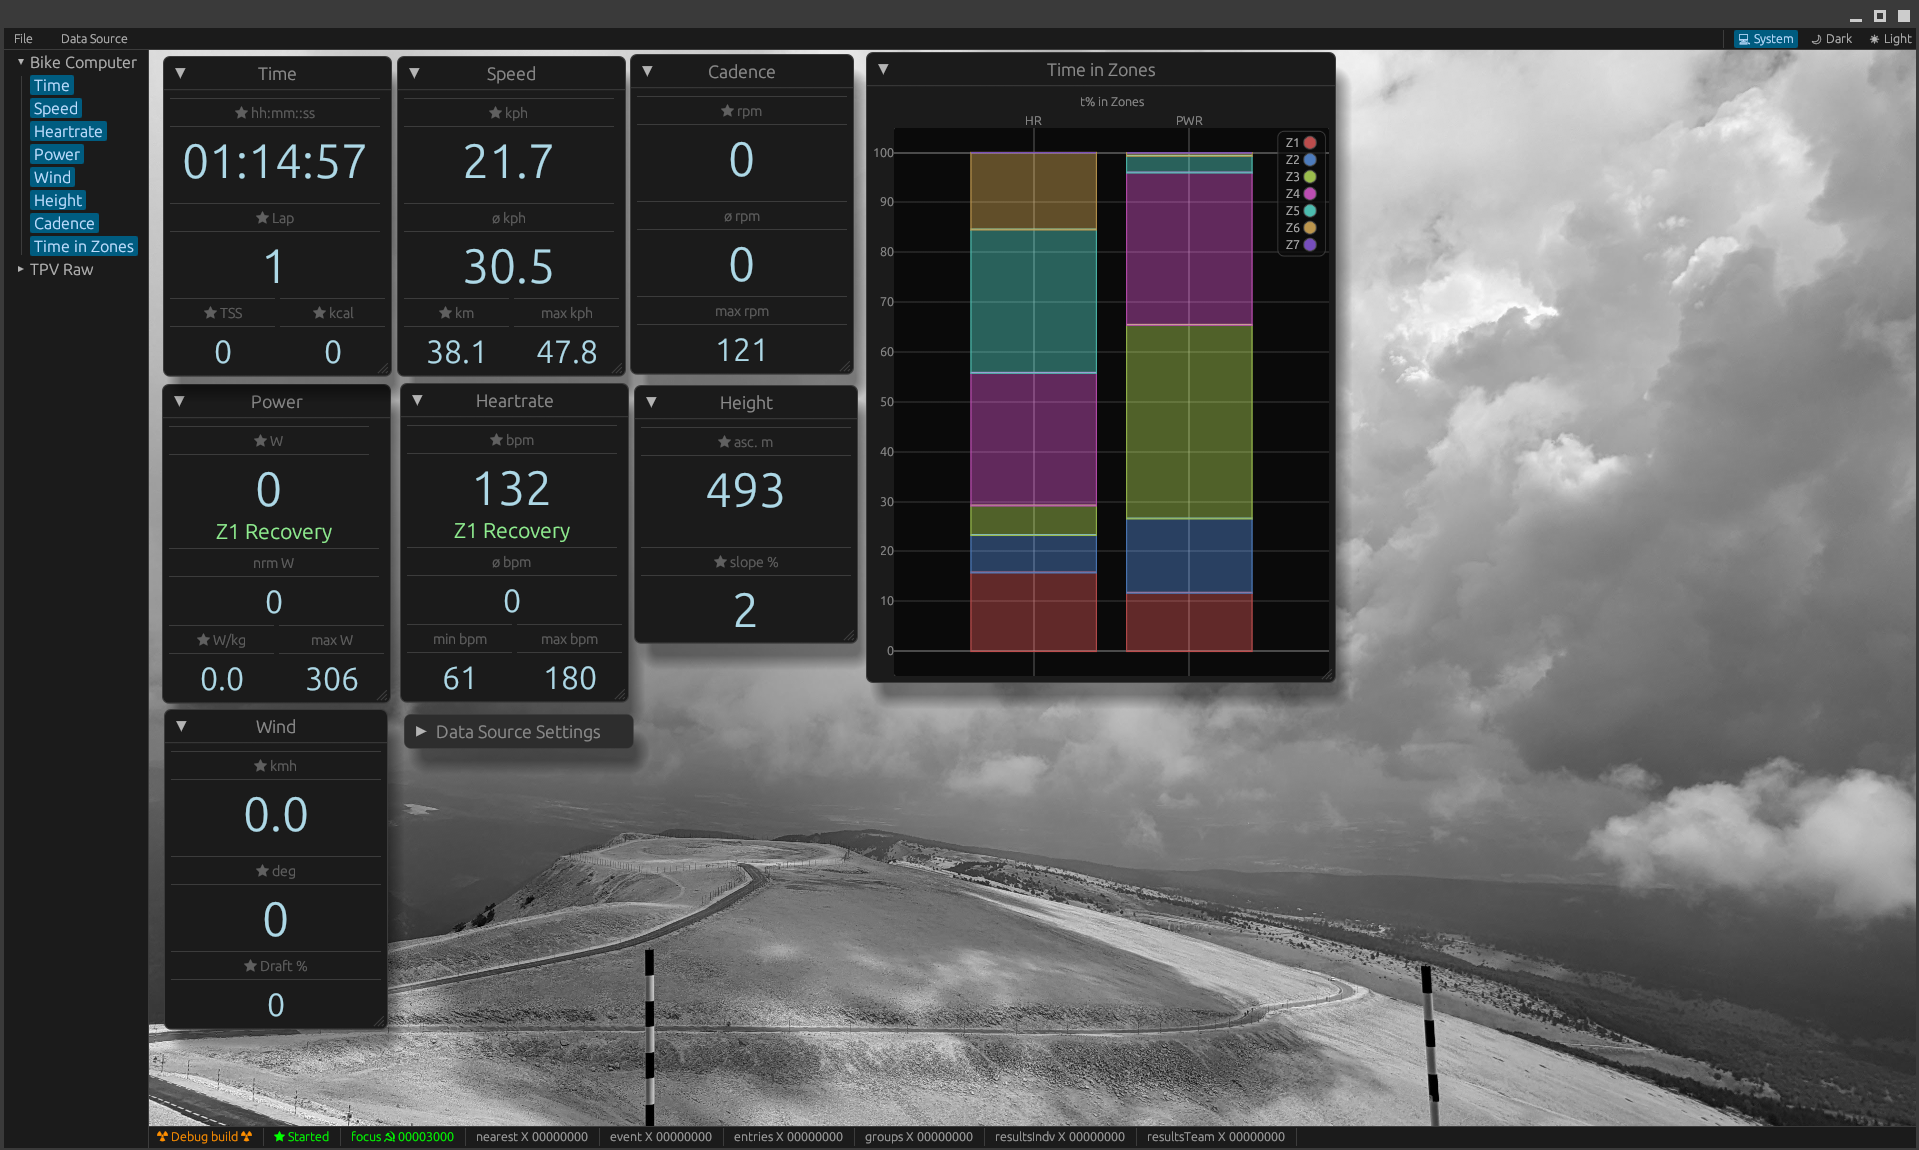
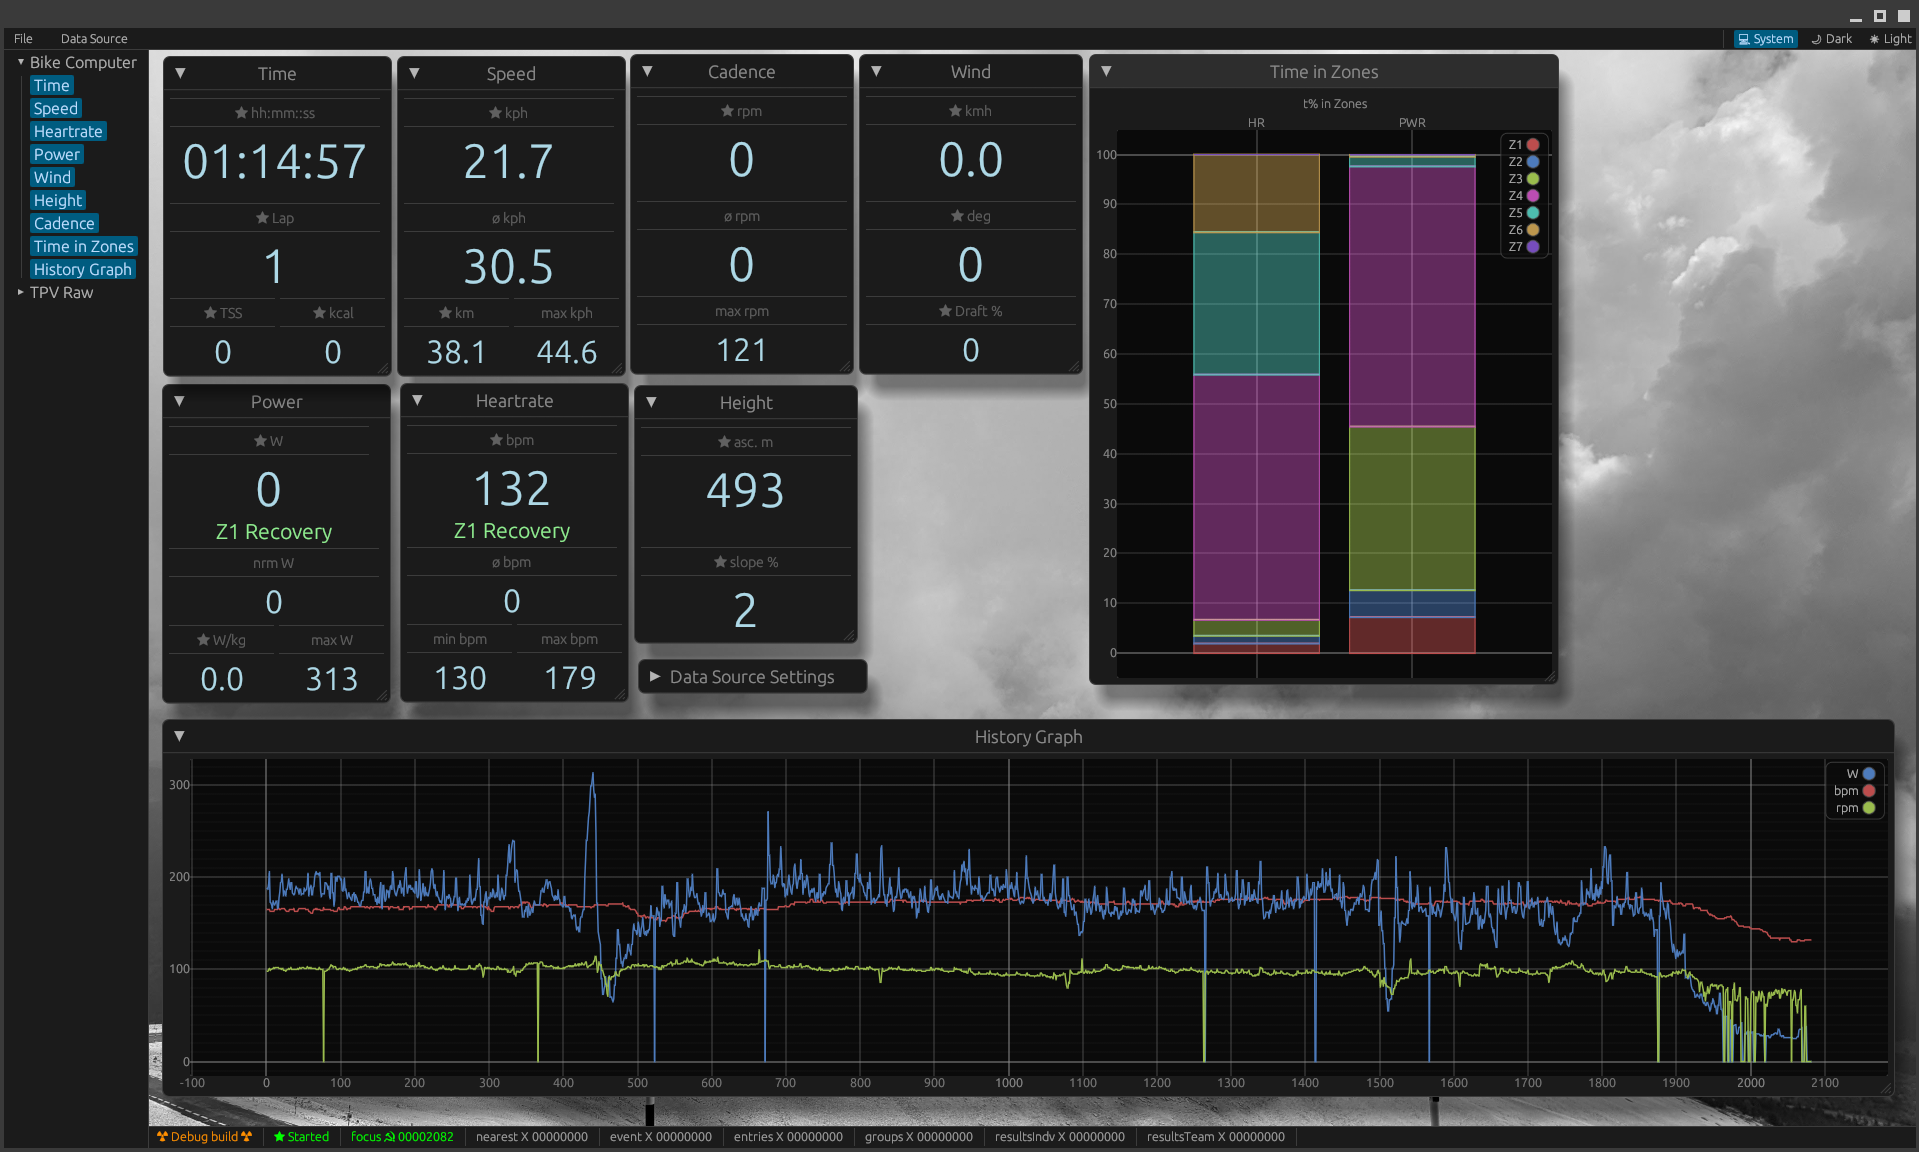
added history graph for HR, PWR, CAD

diff --git a/src/data/ride.rs b/src/data/ride.rs
@@ -37,6 +37,7 @@ pub struct HearRate {
     pub min: u32,
     pub max: u32,
     pub avg: u32,
+    pub history: Vec<u32>,
     first: bool,
 }
 
@@ -47,12 +48,14 @@ impl HearRate {
             min:  0,  
             max:  0, 
             avg:  0,
+            history: vec![0],
             first: true, 
         }
     }
 
     fn update(&mut self, focus: &super::tpvbc::Focus) {
         self.cur = focus.heartrate;
+        self.history.push(self.cur);
 
         if self.first || self.cur < self.min {
             self.min = self.cur;
@@ -73,6 +76,7 @@ pub struct Cadence {
     pub cur: u32,
     pub max: u32,
     pub avg: u32,
+    pub history: Vec<u32>,
     first: bool,
 }
 
@@ -82,12 +86,14 @@ impl Cadence {
             cur: 0,  
             max: 0, 
             avg: 0, 
+            history: vec![0],
             first: true,
         }
     }
 
     fn update(&mut self, focus: &super::tpvbc::Focus) {
         self.cur = focus.cadence;
+        self.history.push(self.cur);
 
         if self.first || self.cur > self.max {
             self.max = self.cur;
@@ -105,6 +111,7 @@ pub struct Power {
     pub max: u32,
     pub nrm: u32,
     pub wpk: f32,
+    pub history: Vec<u32>,
     first: bool,
 }
 
@@ -115,12 +122,14 @@ impl Power {
             max: 0, 
             nrm: 0, 
             wpk: 0.0,
+            history: vec![0],
             first: true,
         }
     }
 
     fn update(&mut self, focus: &super::tpvbc::Focus, weight: f32) {
         self.cur = focus.power;
+        self.history.push(self.cur);
 
         if self.first || self.cur > self.max {
             self.max = self.cur;
@@ -301,7 +310,9 @@ impl Ride {
         log::info!("Restting ride data!");
         self.total = Metrics::new();
         self.current_lap = Metrics::new();
-        self.past_laps = Vec::new()
+        self.past_laps = Vec::new();
+        self.time_in_hr_zones = TimeInZones::new(7);
+        self.time_in_pwr_zones = TimeInZones::new(7);
     }
 
     pub fn update(&mut self, focus: super::tpvbc::Focus) {

diff --git a/src/app.rs b/src/app.rs
@@ -20,6 +20,7 @@ mod ride_wind;
 mod ride_hight;
 mod ride_cadence;
 mod ride_time_in_zones;
+mod ride_history;
 mod setings_source;
 
 const APP_KEY: &str = "tpvui";
@@ -43,6 +44,7 @@ pub struct TpvUiApp {
     widget_ride_hight: ride_hight::Widget,
     widget_ride_cadence: ride_cadence::Widget,
     widget_ride_time_in_zones: ride_time_in_zones::Widget,
+    widget_ride_history: ride_history::Widget,
     widget_settings_source: setings_source::Widget,
 
     #[serde(skip)]
@@ -67,6 +69,7 @@ impl Default for TpvUiApp {
             widget_ride_hight: ride_hight::Widget::new(),
             widget_ride_cadence: ride_cadence::Widget::new(),
             widget_ride_time_in_zones: ride_time_in_zones::Widget::new(),
+            widget_ride_history: ride_history::Widget::new(),
             widget_settings_source: setings_source::Widget::new(),
             df: Facade::new(),
         }
@@ -162,6 +165,7 @@ impl TpvUiApp {
                         self.widget_ride_hight.show_label(ui);
                         self.widget_ride_cadence.show_label(ui);
                         self.widget_ride_time_in_zones.show_label(ui);
+                        self.widget_ride_history.show_label(ui);
                     });
                     ui.collapsing(egui::RichText::new("TPV Raw").size(16.0), |ui| {     
                         self.widged_tpv_focus.show_label(ui);
@@ -239,6 +243,7 @@ impl TpvUiApp {
         TpvUiApp::window_show_hide(ctx, &self.widget_ride_hight, &self.df);
         TpvUiApp::window_show_hide(ctx, &self.widget_ride_cadence, &self.df);
         TpvUiApp::window_show_hide(ctx, &self.widget_ride_time_in_zones, &self.df);
+        TpvUiApp::window_show_hide(ctx, &self.widget_ride_history, &self.df);
 
         if self.widget_settings_source.is_visible() {            
             egui::Window::new(self.widget_settings_source.get_title()).show(ctx, |ui| {

diff --git a/src/app/ride_history.rs b/src/app/ride_history.rs
@@ -1,0 +1,70 @@
+use egui_plot::{Legend, Line, Plot, PlotPoints};
+
+use crate::data::Facade;
+use super::base::WidgetBase;
+
+#[derive(serde::Deserialize, serde::Serialize)]
+pub struct Widget {
+    pub visible: bool,
+}
+
+impl WidgetBase for Widget {   
+    fn title(&self) -> &'static str {
+        "History Graph"
+    }
+
+    fn visible(&self) -> bool {
+        self.visible
+    }
+
+    fn show_label(&mut self, ui: &mut egui::Ui) {
+        self.visible = self.show_label_base(ui, self.visible);
+    }
+
+    fn show_window(&self, ui: &mut egui::Ui, df: &Facade) {
+        let ride = df.ride();        
+
+        let hr_points: PlotPoints = (1..ride.total.hr.history.len()).map(|i| {
+            [
+                i as f64,
+                *ride.total.hr.history.get(i).unwrap() as f64,
+            ]
+        }).collect();
+
+        let hr_history = Line::new(hr_points).name("bpm");
+
+        let pwr_points: PlotPoints = (1..ride.total.power.history.len()).map(|i| {
+            [
+                i as f64,
+                *ride.total.power.history.get(i).unwrap() as f64,
+            ]
+        }).collect();
+
+        let pwr_history = Line::new(pwr_points).name("W");
+
+        let cad_points: PlotPoints = (1..ride.total.cadence.history.len()).map(|i| {
+            [
+                i as f64,
+                *ride.total.cadence.history.get(i).unwrap() as f64,
+            ]
+        }).collect();
+
+        let cad_history = Line::new(cad_points).name("rpm");
+
+        Plot::new("History Graph")
+        .legend(Legend::default())
+        .show(ui, |plot_ui| {
+            plot_ui.line(hr_history);
+            plot_ui.line(pwr_history);
+            plot_ui.line(cad_history);
+        });
+    }
+}
+
+impl Widget {
+    pub fn new() -> Widget {
+        Widget {
+            visible: false,
+        }
+    }
+}
